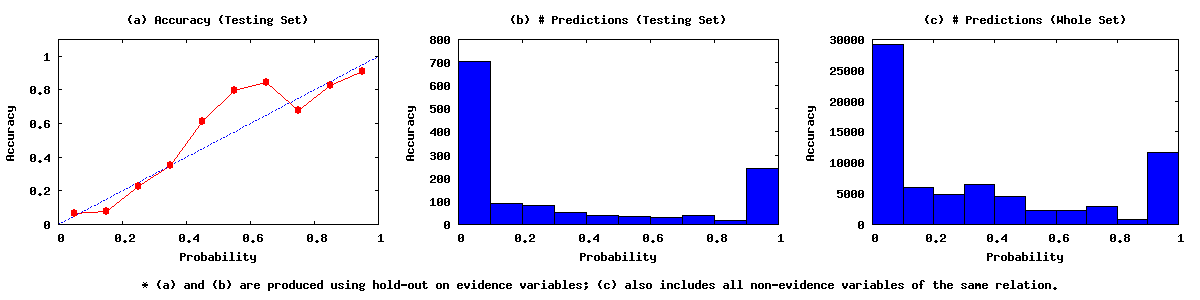
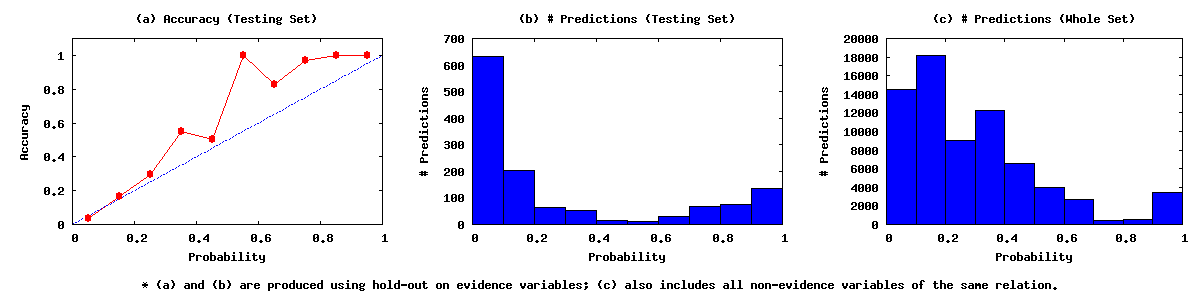
Updated calibration plots

diff --git a/doc/calibration.md b/doc/calibration.md
@@ -66,7 +66,8 @@ DeepDive buckets the inference results into ten buckets from 0.0 to 1.0. Thus, e
 DeepDive also generates a calibration plot for each of the variables you defined in your schema:
 
 <br/>
-![]({{site.baseurl}}/images/calibration_example.png)
+<!-- ![]({{site.baseurl}}/images/calibration_example.png) -->
+![]({{site.baseurl}}/assets/walkthrough_has_spouse_is_true.png)
 
 
 
